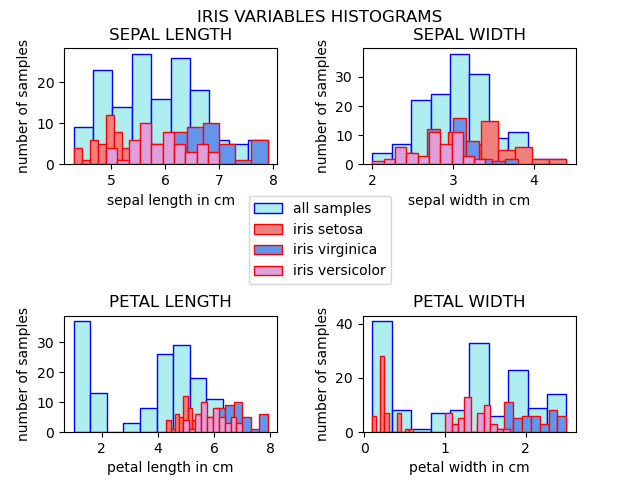
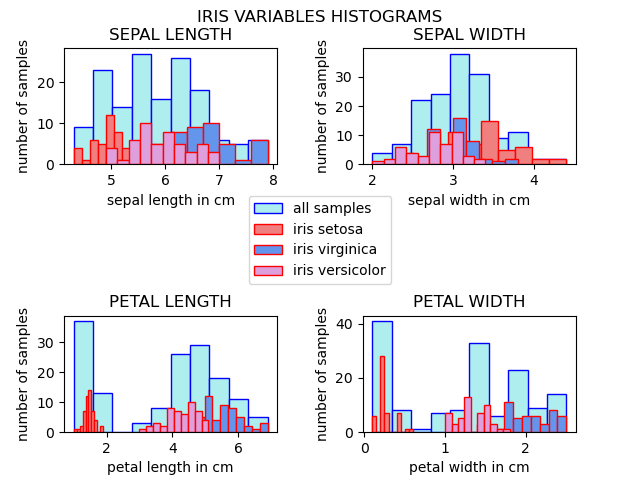
histogram correction

Changed region(s): [[0.125, 0.6562, 0.4375, 0.9375]]

diff --git a/analysis.py b/analysis.py
@@ -44,9 +44,9 @@ plt.title("PETAL LENGTH")
 plt.xlabel("petal length in cm")
 plt.ylabel("number of samples")
 plt.hist(data["petal_length"], color='paleturquoise', edgecolor='blue')
-plt.hist(iris_setosa["sepal_length"], color='lightcoral', edgecolor='red')
-plt.hist(iris_virginica["sepal_length"], color='cornflowerblue', edgecolor='red')
-plt.hist(iris_versicolor["sepal_length"], color='plum', edgecolor='red',)
+plt.hist(iris_setosa["petal_length"], color='lightcoral', edgecolor='red')
+plt.hist(iris_virginica["petal_length"], color='cornflowerblue', edgecolor='red')
+plt.hist(iris_versicolor["petal_length"], color='plum', edgecolor='red',)
 
 plt.subplot(2,2,4)
 plt.title("PETAL WIDTH")
